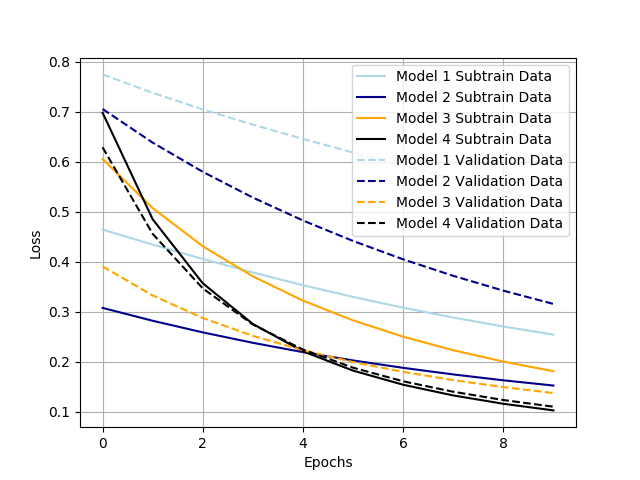
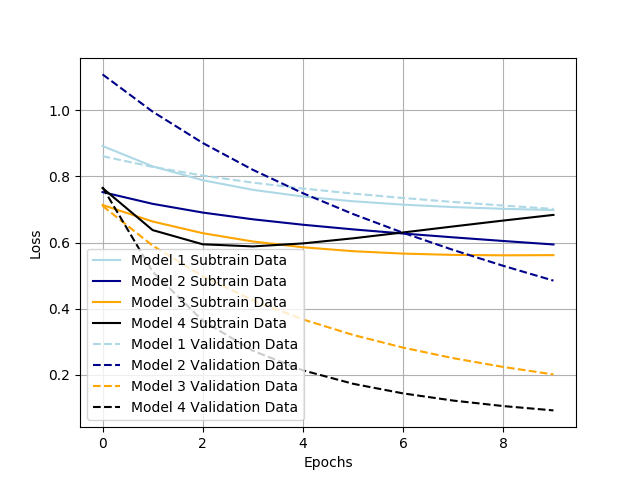
Plots val loss isntead of loss

diff --git a/project5.py b/project5.py
@@ -103,18 +103,18 @@ def graph_model_data(model_data_list, num_epochs, set):
         model_index = 1
         for data in model_data:
             if(set[set_index] == 'Train'):
-                plt.plot(range(0,num_epochs), data.history['loss'], markevery=num_epochs,
+                plt.plot(range(0,num_epochs), data.history['val_loss'], markevery=num_epochs,
                                 color = colors[color_index], linestyle = line_style[set_index],
                                 label = f"Model {model_index} {set[set_index]} Data")
 
             if(set[set_index] == 'Subtrain'):
-                plt.plot(range(0,num_epochs), data.history['loss'], markevery=num_epochs,
+                plt.plot(range(0,num_epochs), data.history['val_loss'], markevery=num_epochs,
                                 color = colors[color_index], linestyle = line_style[set_index],
                                 label = f"Model {model_index} {set[set_index]} Data")
 
 
             if(set[set_index] == 'Validation'):
-                plt.plot(range(0,num_epochs), data.history['loss'],
+                plt.plot(range(0,num_epochs), data.history['val_loss'],
                                 color = colors[color_index], linestyle = line_style[set_index],
                                 label = f"Model {model_index} {set[set_index]} Data")
 
